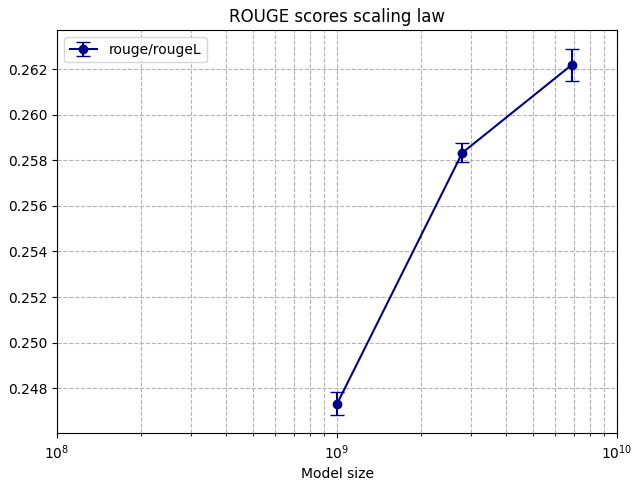
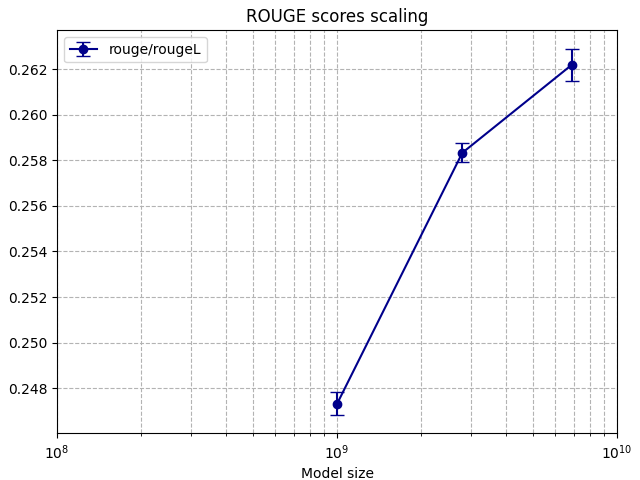
update

Changed region(s): [[0.3438, 0.0, 0.6875, 0.0625]]

diff --git a/eval/rm_sft_scale.py b/eval/rm_sft_scale.py
@@ -114,7 +114,7 @@ plt.axhline(y=0.77, color='black', linestyle='-.', label='Human baseline')
 plt.axhline(y=0.83, color='black', linestyle='--', label='Ensemble of humans')
 
 # Setting the title and labels
-plt.title("RM scaling law")
+plt.title("RM scaling")
 plt.xlabel("Model size")
 plt.ylabel("Validation accuracy")
 plt.xscale("log")  # Setting the x-axis to a logarithmic scale
@@ -165,7 +165,7 @@ for color_idx, ykey in enumerate(ykeys):
     )
 
 # Setting the title and labels
-plt.title("ROUGE scores scaling law")
+plt.title("ROUGE scores scaling")
 plt.xlabel("Model size")
 plt.ylabel("ROUGE score")
 plt.xscale("log")  # Setting the x-axis to a logarithmic scale

diff --git a/eval/rlhf_scale.py b/eval/rlhf_scale.py
@@ -135,7 +135,7 @@ plt.scatter(
 plt.axhline(y=0.5, color='black', linestyle='-.', label='reference summary')
 
 # Setting the title and labels
-plt.title("RLHF scaling law")
+plt.title("RLHF scaling")
 plt.xlabel("Model size")
 plt.ylabel("Fraction preferred to ref (according to GPT-4)")
 plt.xscale("log")  # Setting the x-axis to a logarithmic scale
